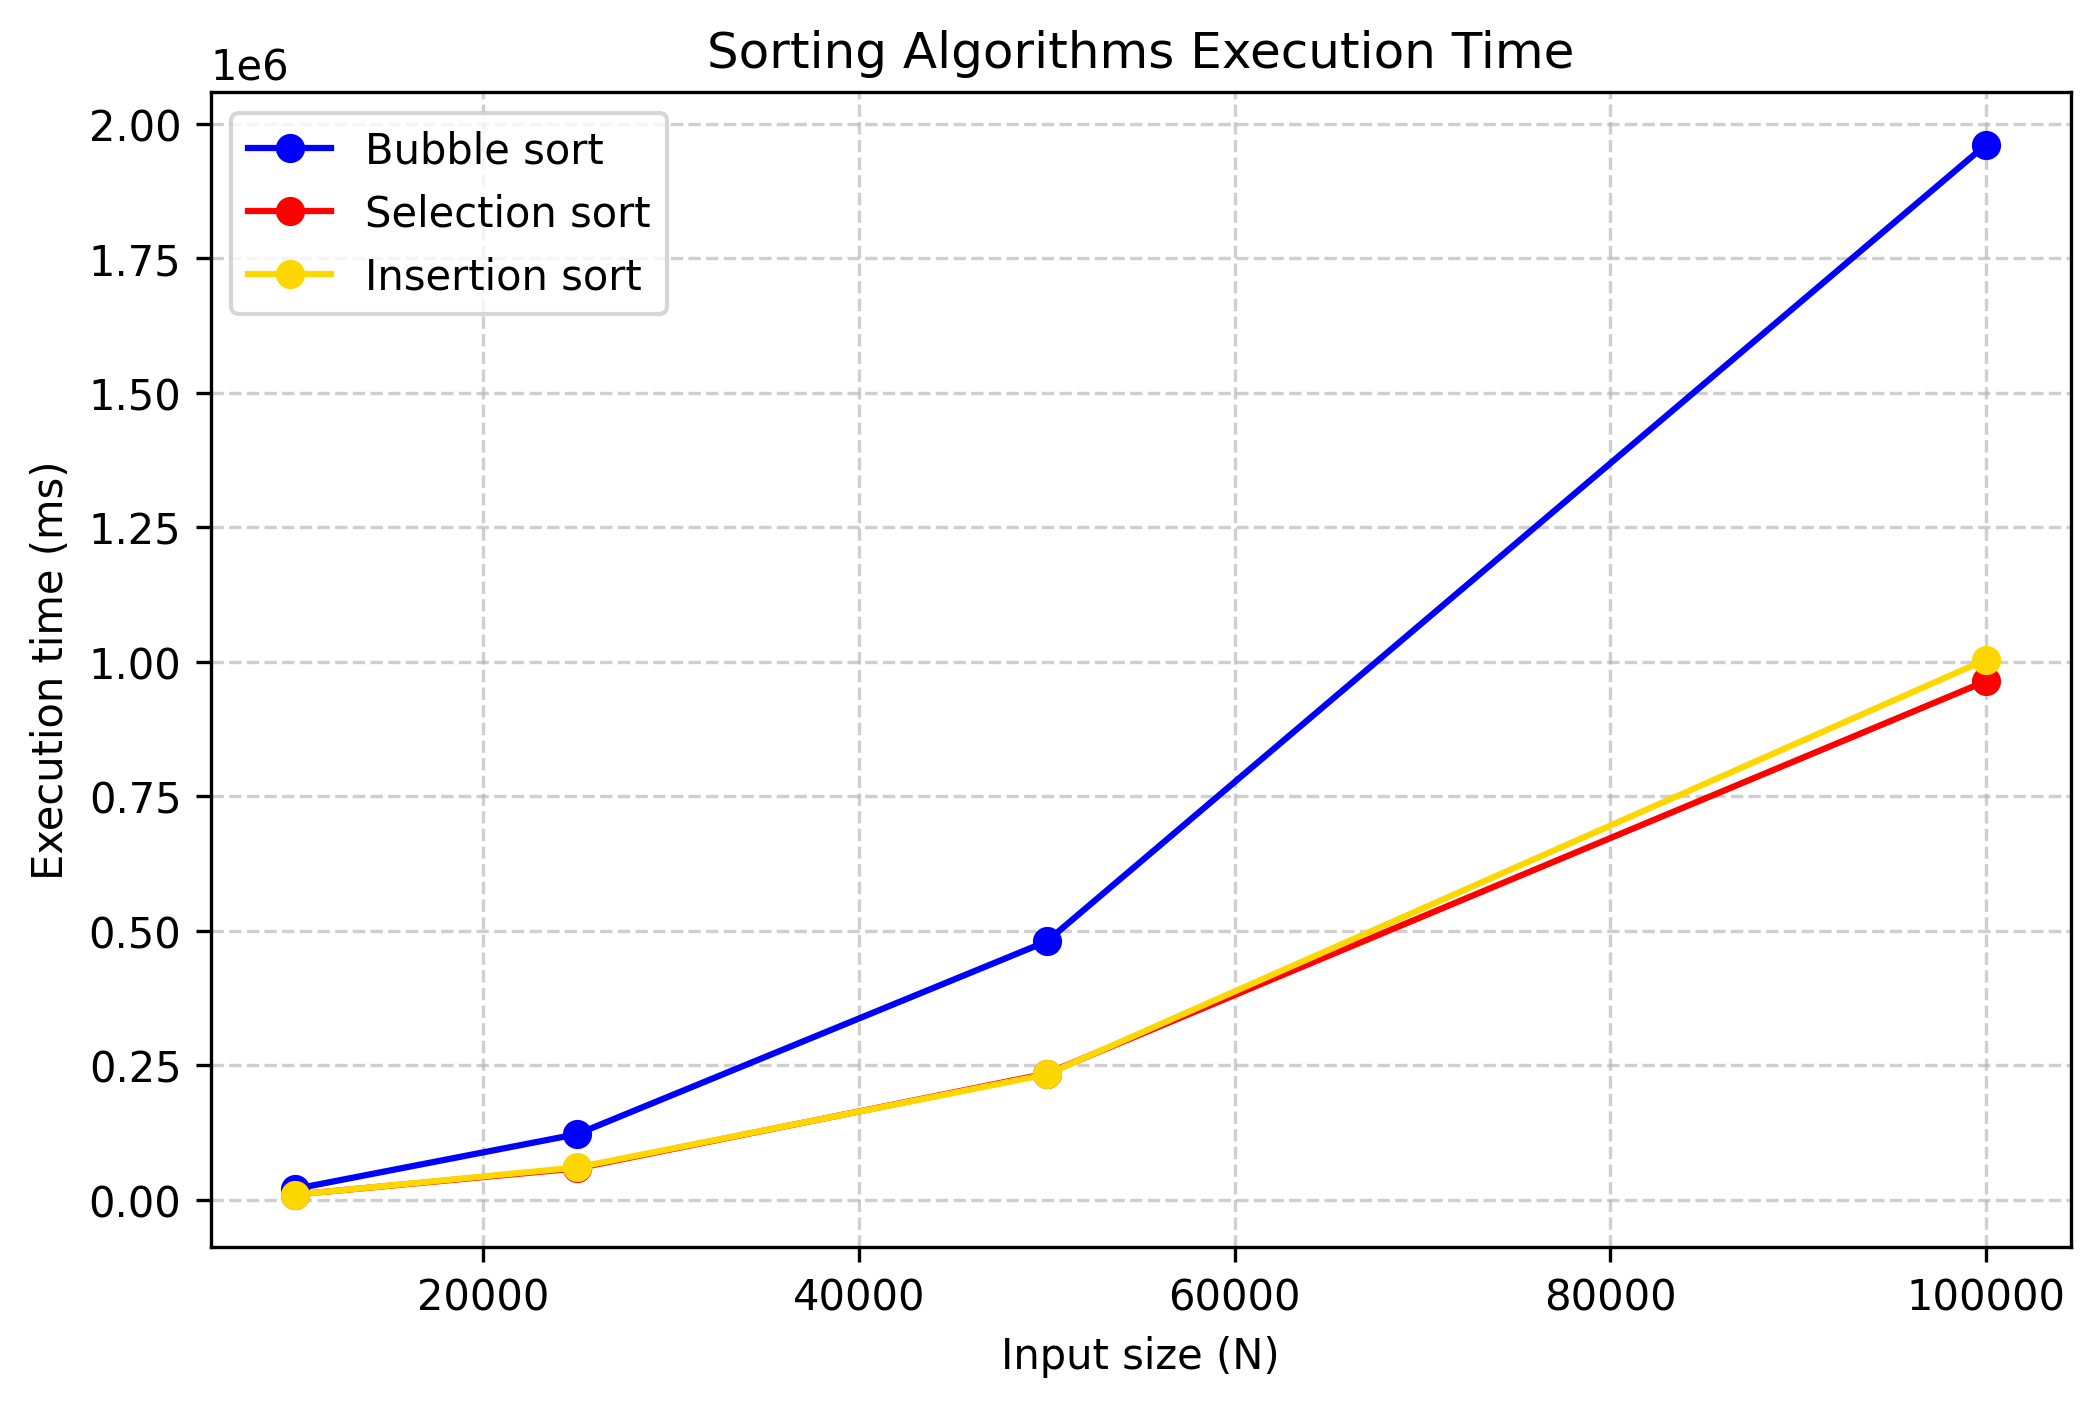
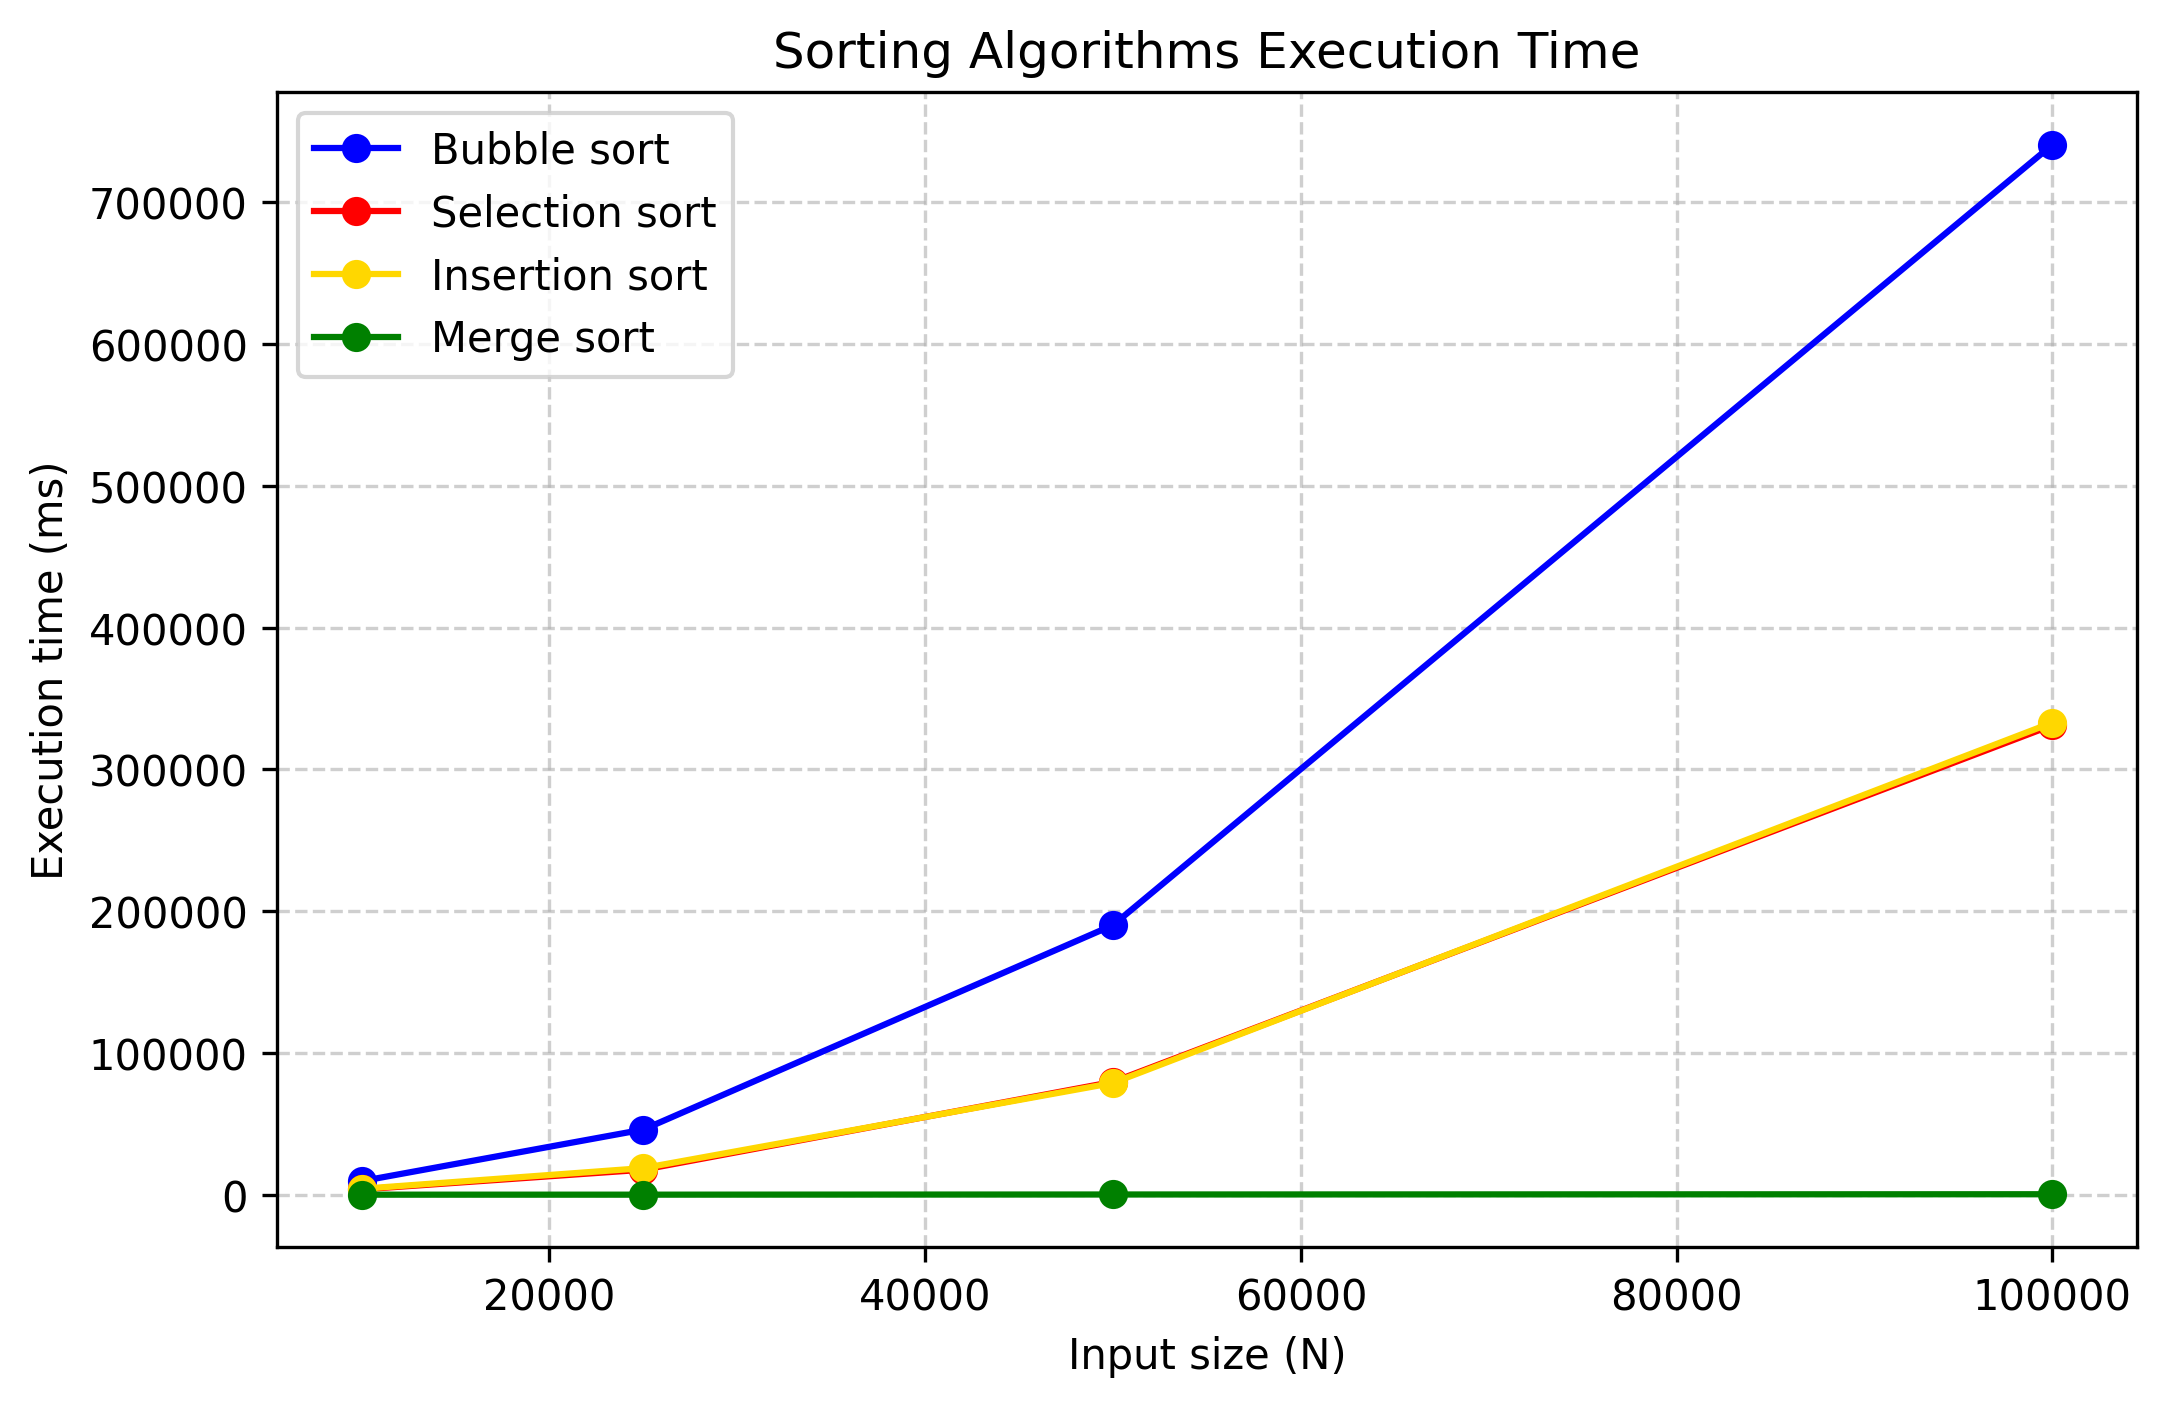
add Merge sort

diff --git a/benchmark.py b/benchmark.py
@@ -1,15 +1,16 @@
 import random
 import time
 import matplotlib.pyplot as plt
-from algorithms import bubble_sort, selection_sort, insertion_sort
+from algorithms import bubble_sort, selection_sort, insertion_sort, merge_sort
 
 
-btime=[]
-stime=[]
-itime=[]
+btime = []
+stime = []
+itime = []
+mtime = []
 
 def generate_random_array(size):
-    return random.choices(range(1_000_000), k=size) # genrating lists with random number  
+    return random.choices(range(1_000_000), k=size) # generating lists with random numbers  
 
 sizes = [10000, 25000, 50000, 100000]
 
@@ -17,7 +18,7 @@ for size in sizes:
     print(f"\n--- Testing Array Size: {size} ---")
     base_arr = generate_random_array(size)
 
-    #  Bubble Sort
+    # 1. Bubble Sort
     arr_bubble = base_arr.copy()
     start = time.time()
     bubble_sort(arr_bubble)
@@ -44,13 +45,21 @@ for size in sizes:
     itime.append(insertion_time)
     print(f"Running time for Insertion Sort is {insertion_time:.2f} ms")
 
-
+    # 4. Merge Sort
+    arr_merge = base_arr.copy()
+    start = time.time()
+    merge_sort(arr_merge)
+    end = time.time()
+    merge_time = (end - start) * 1000
+    mtime.append(merge_time)
+    print(f"Running time for Merge Sort is {merge_time:.2f} ms")
 
 
 plt.figure(figsize=(8, 5))
 plt.plot(sizes, btime, label="Bubble sort", color="blue", marker="o")
 plt.plot(sizes, stime, label="Selection sort", color="red", marker="o")
 plt.plot(sizes, itime, label="Insertion sort", color="gold", marker="o")
+plt.plot(sizes, mtime, label="Merge sort", color="green", marker="o")
 
 plt.xlabel("Input size (N)")
 plt.ylabel("Execution time (ms)")

diff --git a/algorithms.py b/algorithms.py
@@ -10,6 +10,7 @@ def bubble_sort(arr):
         if not swapped: # to check that its already sorted or no
             break
     return arr
+
 def insertion_sort(arr):
     n = len(arr)
     for i in range(1,n):
@@ -30,3 +31,38 @@ def selection_sort(arr):
                 k=j
 
         arr[i],arr[k] = arr[k],arr[i]
+
+def merge_sort(arr):
+    if len(arr) > 1:
+        mid = len(arr) // 2
+        left_half = arr[:mid]
+        right_half = arr[mid:]
+
+        # Recursive call on both halves
+        merge_sort(left_half)
+        merge_sort(right_half)
+
+        i = j = k = 0
+
+        # Copy data to temporary arrays left_half and right_half
+        while i < len(left_half) and j < len(right_half):
+            if left_half[i] < right_half[j]:
+                arr[k] = left_half[i]
+                i += 1
+            else:
+                arr[k] = right_half[j]
+                j += 1
+            k += 1
+
+        # Checking if any element was left
+        while i < len(left_half):
+            arr[k] = left_half[i]
+            i += 1
+            k += 1
+
+        while j < len(right_half):
+            arr[k] = right_half[j]
+            j += 1
+            k += 1
+            
+    return arr
